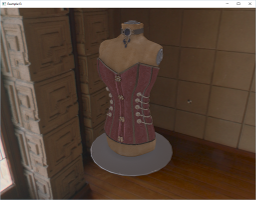
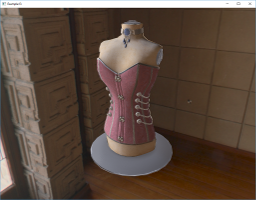
Fixed normal, bitangent and tangent calculation for glTF.

diff --git a/VKTS_PKG_Scenegraph/src/scenegraph/load/fn_gltf_load.cpp b/VKTS_PKG_Scenegraph/src/scenegraph/load/fn_gltf_load.cpp
@@ -518,7 +518,7 @@ static VkBool32 gltfProcessSubMesh(ISubMeshSP& subMesh, const GltfVisitor& visit
 
     	if (createTangents)
     	{
-        	uint32_t size = sizeof(float) * 3 * 2 * subMesh->getNumberIndices();
+        	uint32_t size = sizeof(float) * 3 * 2 * subMesh->getNumberVertices();
 
             tempBinaryBuffer = binaryBufferCreate(size);
 
@@ -529,7 +529,7 @@ static VkBool32 gltfProcessSubMesh(ISubMeshSP& subMesh, const GltfVisitor& visit
                 return VK_FALSE;
             }
 
-            for (uint32_t i = 0; i < (uint32_t)subMesh->getNumberIndices(); i+=3)
+            for (uint32_t i = 0; i < (uint32_t)subMesh->getNumberIndices() / 3; i++)
             {
             	int32_t index[3];
 
@@ -542,7 +542,7 @@ static VkBool32 gltfProcessSubMesh(ISubMeshSP& subMesh, const GltfVisitor& visit
 
             	for (uint32_t k = 0; k < 3; k++)
             	{
-            		index[k] = ((const int32_t*)indicesBinaryBuffer->getData())[i + k];
+            		index[k] = ((const int32_t*)indicesBinaryBuffer->getData())[i * 3 + k];
 
             		//
 
@@ -591,8 +591,8 @@ static VkBool32 gltfProcessSubMesh(ISubMeshSP& subMesh, const GltfVisitor& visit
 
                 float r = 1.0f / (deltaUV[0].x * deltaUV[1].y - deltaUV[0].y * deltaUV[1].x);
 
-                glm::vec3 tangent = (deltaPos[0] * deltaUV[1].y - deltaPos[1] * deltaUV[0].y) * r;
-                glm::vec3 bitangent = (deltaPos[1] * deltaUV[0].x - deltaPos[0] * deltaUV[1].x) * r;
+                glm::vec3 tangent = glm::normalize((deltaPos[0] * deltaUV[1].y - deltaPos[1] * deltaUV[0].y) * r);
+                glm::vec3 bitangent = glm::normalize((deltaPos[1] * deltaUV[0].x - deltaPos[0] * deltaUV[1].x) * r);
 
                 //
 
